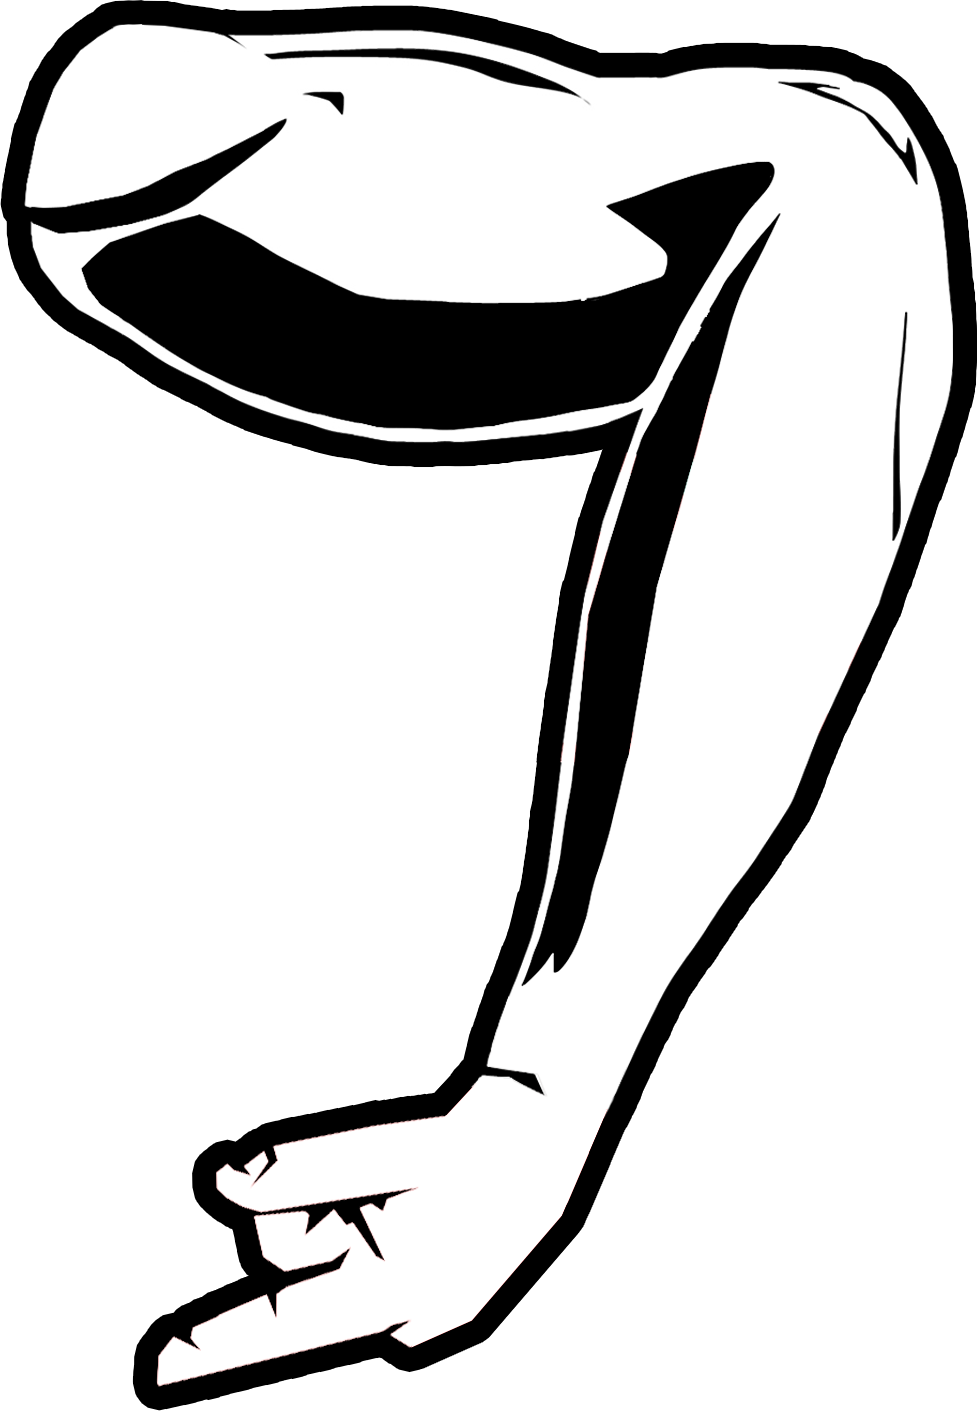
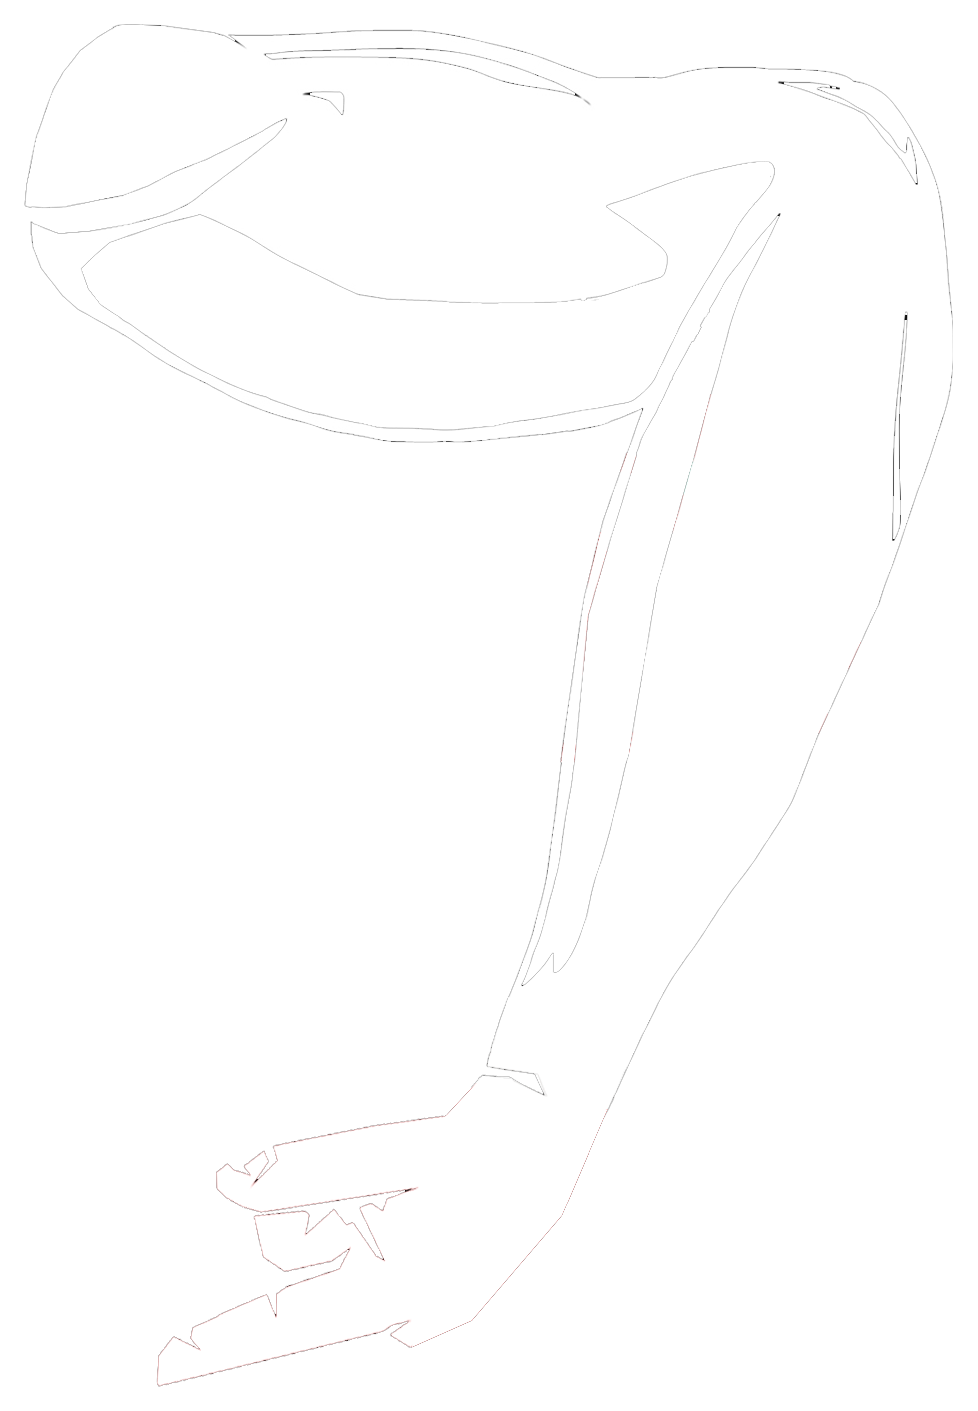
onboarding tested and complete... I had to remove all the test colors and replace them with transparent colors to so that functionality remained the same

Changed region(s): [[0.0, 0.0, 1.0, 1.0]]

diff --git a/swol/lib/utils/onboarding.dart b/swol/lib/utils/onboarding.dart
@@ -5,6 +5,8 @@ import 'package:flutter/material.dart';
 import 'package:shared_preferences/shared_preferences.dart';
 import 'package:feature_discovery/feature_discovery.dart';
 
+//NOTE: alot of containers below must have color transparent to functions
+
 //enums
 enum AFeature {
   //permission
@@ -71,6 +73,7 @@ class OnBoardingText extends StatelessWidget {
   OnBoardingText({
     @required this.text,
     this.isLeft: true,
+    @required this.isTop,
     this.onTapNext,
     this.onTapPrev,
     @required this.showDone,
@@ -78,6 +81,7 @@ class OnBoardingText extends StatelessWidget {
 
   final String text;
   final bool isLeft;
+  final bool isTop;
   final Function onTapNext;
   final Function onTapPrev;
   final bool showDone;
@@ -92,7 +96,7 @@ class OnBoardingText extends StatelessWidget {
       child: GestureDetector(
         onTap: () => secondaryOnTapNext(),
         child: Container(
-          color: Colors.green,
+          color: Colors.transparent,
           child: Text(""),
         ),
       ),
@@ -110,7 +114,7 @@ class OnBoardingText extends StatelessWidget {
           GestureDetector(
             onTap: () => secondaryOnTapNext(),
             child: Container(
-              color: Colors.pink,
+              color: Colors.transparent,
               alignment: isLeft ? Alignment.centerLeft : Alignment.centerRight,
               child: Text(
                 text,
@@ -133,7 +137,6 @@ class OnBoardingText extends StatelessWidget {
                 : GestureDetector(
                   onTap: () => onTapPrev(),
                   child: Container(
-                    color: Colors.yellow,
                     child: Padding(
                       padding: const EdgeInsets.symmetric(
                         vertical: 8,
@@ -155,13 +158,12 @@ class OnBoardingText extends StatelessWidget {
                                 vertical: 8,
                               ),
                               decoration: BoxDecoration(
-                                //color: Colors.blue,
                                 borderRadius: BorderRadius.only(
                                   topLeft: Radius.circular(12),
                                   bottomLeft: Radius.circular(12),
                                 ),
                                 border: Border.all(
-                                  color: Colors.green.withOpacity(0.5),
+                                  color: isTop ? Theme.of(context).primaryColor : Theme.of(context).primaryColorDark,
                                   width: 2,
                                 )
                               ),
@@ -181,7 +183,6 @@ class OnBoardingText extends StatelessWidget {
                 GestureDetector(
                   onTap: (onTapNext == null) ? (){} : () => onTapNext(),
                   child: Container(
-                    color: Colors.orange,
                     child: Padding(
                       padding: EdgeInsets.only(
                         left: (onTapPrev == null) ? 0 : 16,
@@ -191,7 +192,6 @@ class OnBoardingText extends StatelessWidget {
                       ),
                       child: Center(
                         child: Container(
-                          color: Colors.red,
                           child: Text(
                             showDone ? "Done" : "Next",
                             style: TextStyle(
@@ -235,7 +235,7 @@ class OnBoardingImage extends StatelessWidget {
       onTap: (onTap == null) ? (){} : () => onTap(),
       //NOTE: invisible container required to make tap target large
       child: Container(
-        color: Colors.grey,
+        color: Colors.transparent,
         child: FittedBox(
           fit: BoxFit.contain,
           child: Container(
@@ -315,6 +315,7 @@ class FeatureWrapper extends StatelessWidget {
     Widget textWidget = OnBoardingText(
       text: text,
       isLeft: left,
+      isTop: top,
       onTapNext: () => FeatureDiscovery.dismiss(context),
       onTapPrev: (prevFeature == null) ? null : (){
         continueForward.value = false;

diff --git a/swol/lib/excerciseSelection/excerciseListPage.dart b/swol/lib/excerciseSelection/excerciseListPage.dart
@@ -82,7 +82,7 @@ class _ExcerciseSelectState extends State<ExcerciseSelect> {
   void initState() { 
     //create function
     Function afterConfirm = (){
-      if(widget.shownInitialControls == false){
+      if(widget.shownInitialControls == false || true){ //TODO: remove and true
         OnBoarding.discoverSwolLogo(context);
       }
     };
